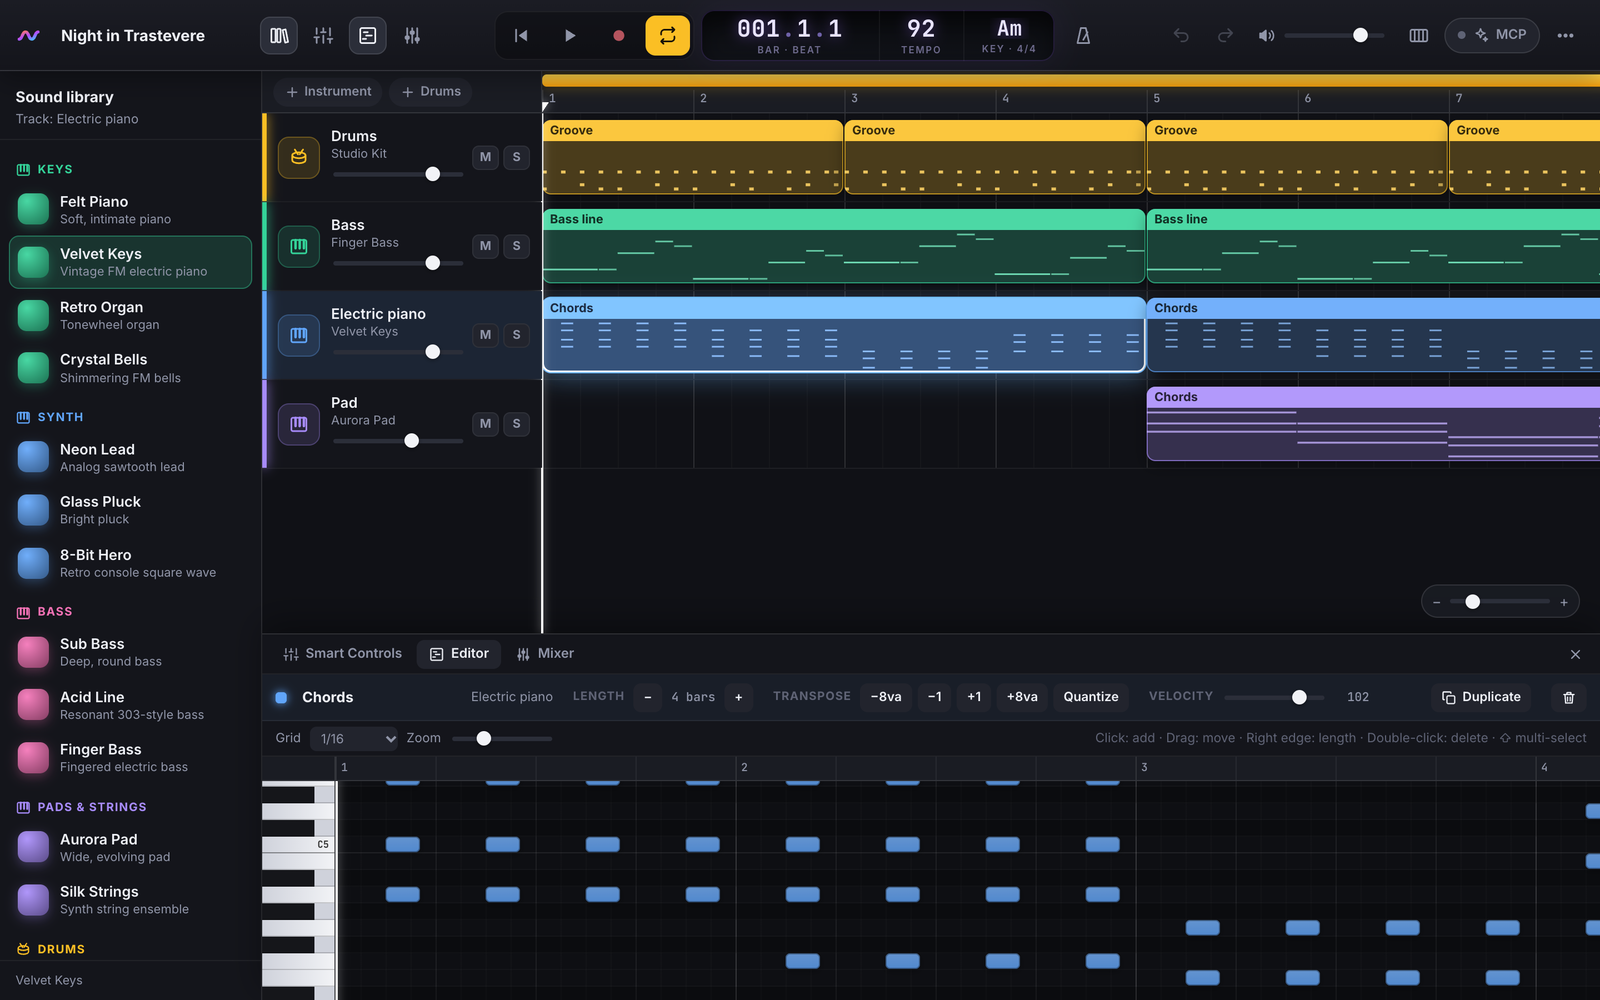
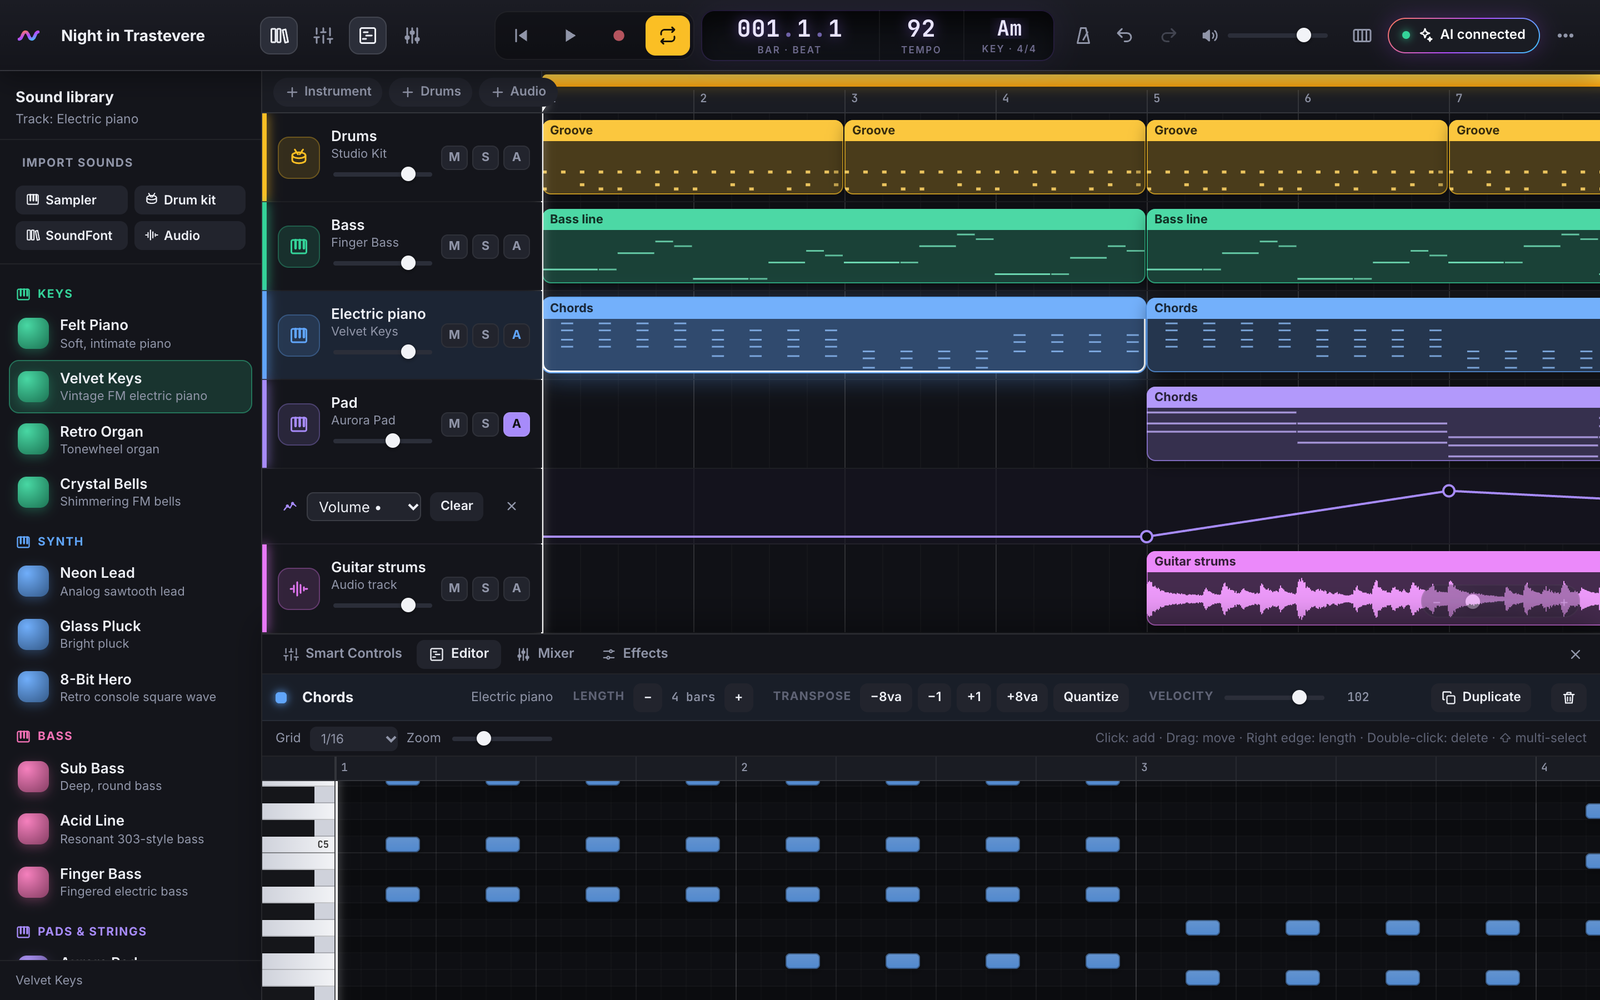
Docs: new demo GIF and screenshots, usage guide for sounds/effects/automation/MIDI
- Demo GIF and screenshots show audio track, effects, automation lane
- README (EN/IT): screenshot grid, how-to section, AI prompt example
- MCP instructions mention effects, automation and MIDI/WAV files
- Zoom control fades out until hovered so it doesn't hide clips

diff --git a/src/styles.css b/src/styles.css
@@ -859,6 +859,13 @@ input[type='range']::-moz-range-thumb {
   background: rgba(26, 28, 35, 0.85);
   backdrop-filter: blur(8px);
   box-shadow: inset 0 0 0 1px var(--line-2);
+  /* Floats over the tracks: stay discreet until used. */
+  opacity: 0.35;
+  transition: opacity 0.15s;
+}
+.zoom-ctl:hover,
+.zoom-ctl:focus-within {
+  opacity: 1;
 }
 .zoom-ctl input {
   width: 90px;

diff --git a/README.it.md b/README.it.md
@@ -31,7 +31,9 @@ OpenBand è una reimplementazione *clean-room*: riproduce il flusso di lavoro di
 
 | Piano roll | Mixer |
 |---|---|
-| ![Piano roll](docs/editor.png) | ![Mixer](docs/mixer.png) |
+| ![Piano roll](docs/editor.png) | ![Mixer con effetti su due tracce](docs/mixer.png) |
+| **Effetti** | **Traccia audio** |
+| ![Amp, EQ e compressore sul basso](docs/effects.png) | ![Clip audio con forma d'onda](docs/audio.png) |
 
 > Nella demo online l'AI non può collegarsi: per motivi di sicurezza il server MCP accetta solo pagine servite da localhost. Per farla suonare alla tua AI, avvia OpenBand in locale come spiegato qui sotto.
 
@@ -49,6 +51,14 @@ npm run build
 ```
 
 Al primo avvio si apre un brano demo. Il clic su “Entra nello studio” (“Enter the studio” in inglese) serve perché i browser abilitano l'audio solo dopo un'interazione dell'utente.
+
+## Suoni, effetti, automazioni e MIDI
+
+- **I tuoi suoni**: usa *Importa suoni* in cima alla libreria. *Campionatore* trasforma file audio in uno strumento (chiamali per esempio `Piano_C4.wav` per indicare i tasti, altrimenti la nota viene riconosciuta); *Kit batteria* assegna i file chiamati kick, snare, hat, clap, tom… ai pezzi del kit; *SoundFont* apre una libreria `.sf2` e ti fa scegliere i preset; *Audio* mette i file sulla timeline. Puoi anche trascinare i file ovunque nello studio. SoundFont gratuiti da provare: FluidR3_GM (MIT) o GeneralUser GS.
+- **Salvataggio**: i progetti con suoni importati si salvano in un unico file `.openband` che contiene i campioni, così si aprono ovunque.
+- **Effetti**: seleziona una traccia e premi **F** (o clicca *FX* su un canale del mixer). Ogni unità ha il suo pulsante di accensione.
+- **Automazioni**: clicca **A** su una traccia per aprirne la corsia, scegli il parametro, clicca per aggiungere punti, trascinali per spostarli, doppio clic per eliminarli.
+- **MIDI**: *Importa MIDI…* / *Esporta MIDI* nel menu ⋯, oppure trascina un file `.mid` nello studio.
 
 ## Collegare un'AI (MCP)
 
@@ -83,6 +93,8 @@ claude mcp add openband -- node /percorso/assoluto/openband/server/mcp-server.mj
 Poi apri lo studio (`npm run dev`, oppure lascia che l'AI chiami `open_studio` dopo un `npm run build`) e chiedi, per esempio:
 
 > Crea un beat lo-fi a 82 BPM in Re minore con batteria, basso e Rhodes, poi fai partire il loop.
+
+> Importa ~/Samples/voce.wav come traccia audio alla battuta 5, metti un compressore sul basso, fai entrare il pad in dissolvenza in due battute e salva il brano come ~/Desktop/brano.wav e brano.mid.
 
 Variabili d'ambiente: `OPENBAND_PORT` (predefinita 7777; se la cambi, apri l'app con `?mcp=<porta>`) e `OPENBAND_DEV_URL` (predefinita `http://localhost:5173`).
 

diff --git a/README.md b/README.md
@@ -33,7 +33,9 @@ OpenBand is a *clean-room* implementation: it reproduces the workflow of a consu
 
 | Piano roll | Mixer |
 |---|---|
-| ![Piano roll](docs/editor.png) | ![Mixer](docs/mixer.png) |
+| ![Piano roll](docs/editor.png) | ![Mixer with effects on two tracks](docs/mixer.png) |
+| **Effects** | **Audio track** |
+| ![Amp, EQ and compressor on the bass](docs/effects.png) | ![Audio clip with waveform](docs/audio.png) |
 
 > The online demo can't talk to your AI: for security, the MCP server only accepts pages served from localhost. To let your AI play, run OpenBand locally as shown below.
 
@@ -53,6 +55,14 @@ npm run build
 ```
 
 A demo song opens on first launch. The “Enter the studio” click is needed because browsers only enable audio after a user interaction.
+
+## Sounds, effects, automation and MIDI
+
+- **Your own sounds**: use *Import sounds* at the top of the library. *Sampler* turns audio files into an instrument (name them like `Piano_C4.wav` to set the keys, otherwise the pitch is detected); *Drum kit* maps files named kick, snare, hat, clap, tom… to the kit; *SoundFont* opens a `.sf2` library and lets you pick presets; *Audio* puts files on the timeline. You can also drop files anywhere on the studio. Free SoundFonts to try: FluidR3_GM (MIT) or GeneralUser GS.
+- **Saving**: projects with imported sounds are saved as one `.openband` file that contains the samples, so they open anywhere.
+- **Effects**: select a track and press **F** (or click *FX* on a mixer strip). Each unit has its own power button.
+- **Automation**: click **A** on a track to open its lane, choose the parameter, click to add points, drag to move them, double-click to delete.
+- **MIDI**: *Import MIDI…* / *Export MIDI* in the ⋯ menu, or drop a `.mid` file on the studio.
 
 ## Connect an AI (MCP)
 
@@ -87,6 +97,8 @@ claude mcp add openband -- node /absolute/path/to/openband/server/mcp-server.mjs
 Then open the studio (`npm run dev`, or let the AI call `open_studio` after an `npm run build`) and ask, for example:
 
 > Make a lo-fi beat at 82 BPM in D minor with drums, bass and Rhodes, then start the loop.
+
+> Import ~/Samples/vocal.wav as an audio track at bar 5, put a compressor on the bass, fade the pad in over two bars and save the song as ~/Desktop/song.wav and song.mid.
 
 Environment variables: `OPENBAND_PORT` (default 7777; if you change it, open the app with `?mcp=<port>`) and `OPENBAND_DEV_URL` (default `http://localhost:5173`).
 
